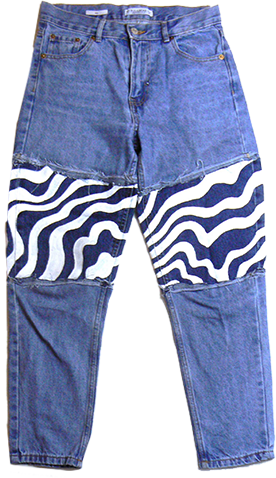
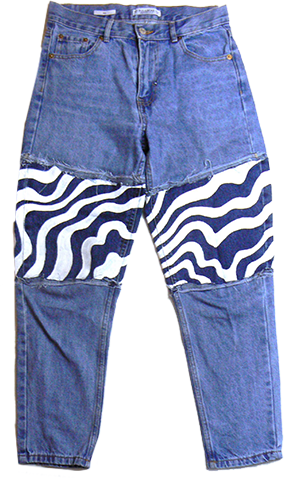
nouveaux vêtements

diff --git a/devoir3/index.html b/devoir3/index.html
@@ -22,30 +22,48 @@
                      
                    
                 <div class="draggableDiv">
-                    <img class="image1" src="jean1.png">
+                    <div class="resizer"></div>
+                    <img class="image1" src="jean1.png" >
                     <img class="image2" src="jean1b.png">
                 </div>
                 
                 <div class="draggableDiv">
-                    <img class="image" src="jean2.png">
+                    <img class="image1" src="jean2.png" >
+                    <img class="image2" src="jean2b.png">
                 </div>
                 <div class="draggableDiv">
-                    <img class="image1" src="jean3.png">
+                    <img class="image1" src="jean3.png" >
+                    <img class="image2" src="jean3b.png">
+                </div>
+                <div class="draggableDiv">
+                    <img class="image" src="jean4.png">
                 </div>
                 <div class="draggableDiv">
                     <img class="image1" src="veste1.png">
+                    <img class="image2" src="veste1b.png">
                 </div>
                 <div class="draggableDiv">
                     <img class="image1" src="veste2.png">
+                    <img class="image2" src="veste2b.png">
                 </div>
                 <div class="draggableDiv">
                     <img class="image1" src="veste3.png">
+                    <img class="image2" src="veste3b.png">
                 </div>
                 <div class="draggableDiv">
                     <img class="image1" src="veste4.png">
+                    <img class="image2" src="veste4b.png">
                 </div>
                 <div class="draggableDiv">
                     <img class="image1" src="veste5.png">
+                    <img class="image2" src="veste5b.png">
+                </div>
+                <div class="draggableDiv">
+                    <img class="image1" src="veste6.png">
+                    <img class="image2" src="veste6b.png">
+                </div>
+                <div class="draggableDiv">
+                    <img class="image" src="veste7.png">
                 </div>
 
                 

diff --git a/devoir3/style.css b/devoir3/style.css
@@ -67,16 +67,16 @@ body {
 }
 
 .image {
-    width: 300px;
+   zoom: 0.5; 
 }
 .image1{
     position: absolute;
-    width: 300px;
+    zoom: 0.5; 
 }
 
 .image2{
     position:absolute;
-    width: 300px;
+    zoom: 0.5; 
 }
 
 .draggableDiv {
@@ -95,4 +95,14 @@ body {
 
 .bold{
     font-weight: 600;
+}
+
+.resizer {
+    position: absolute;
+    width: 10px;
+    height:10px;
+    border-radius: 5px;
+    background-color: black;
+    z-index: 2;
+    cursor: nw-resize;
 }

diff --git a/devoir3/main.js b/devoir3/main.js
@@ -18,12 +18,9 @@ document.querySelectorAll('.draggableDiv').forEach(div => {
     }
 });
 
-
-
-
 function placeImg(img) {
     const maxX = window.innerWidth - img.clientWidth;
-    const maxY = window.innerHeight - img.clientHeight;
+    const maxY = window.innerHeight - img.clientHeight; //le clientwidth retourne 0 pcq pas défini dans le CSS; à régler
 
     const x = Math.floor(Math.random() * maxX);
     const y = Math.floor(Math.random() * maxY);
